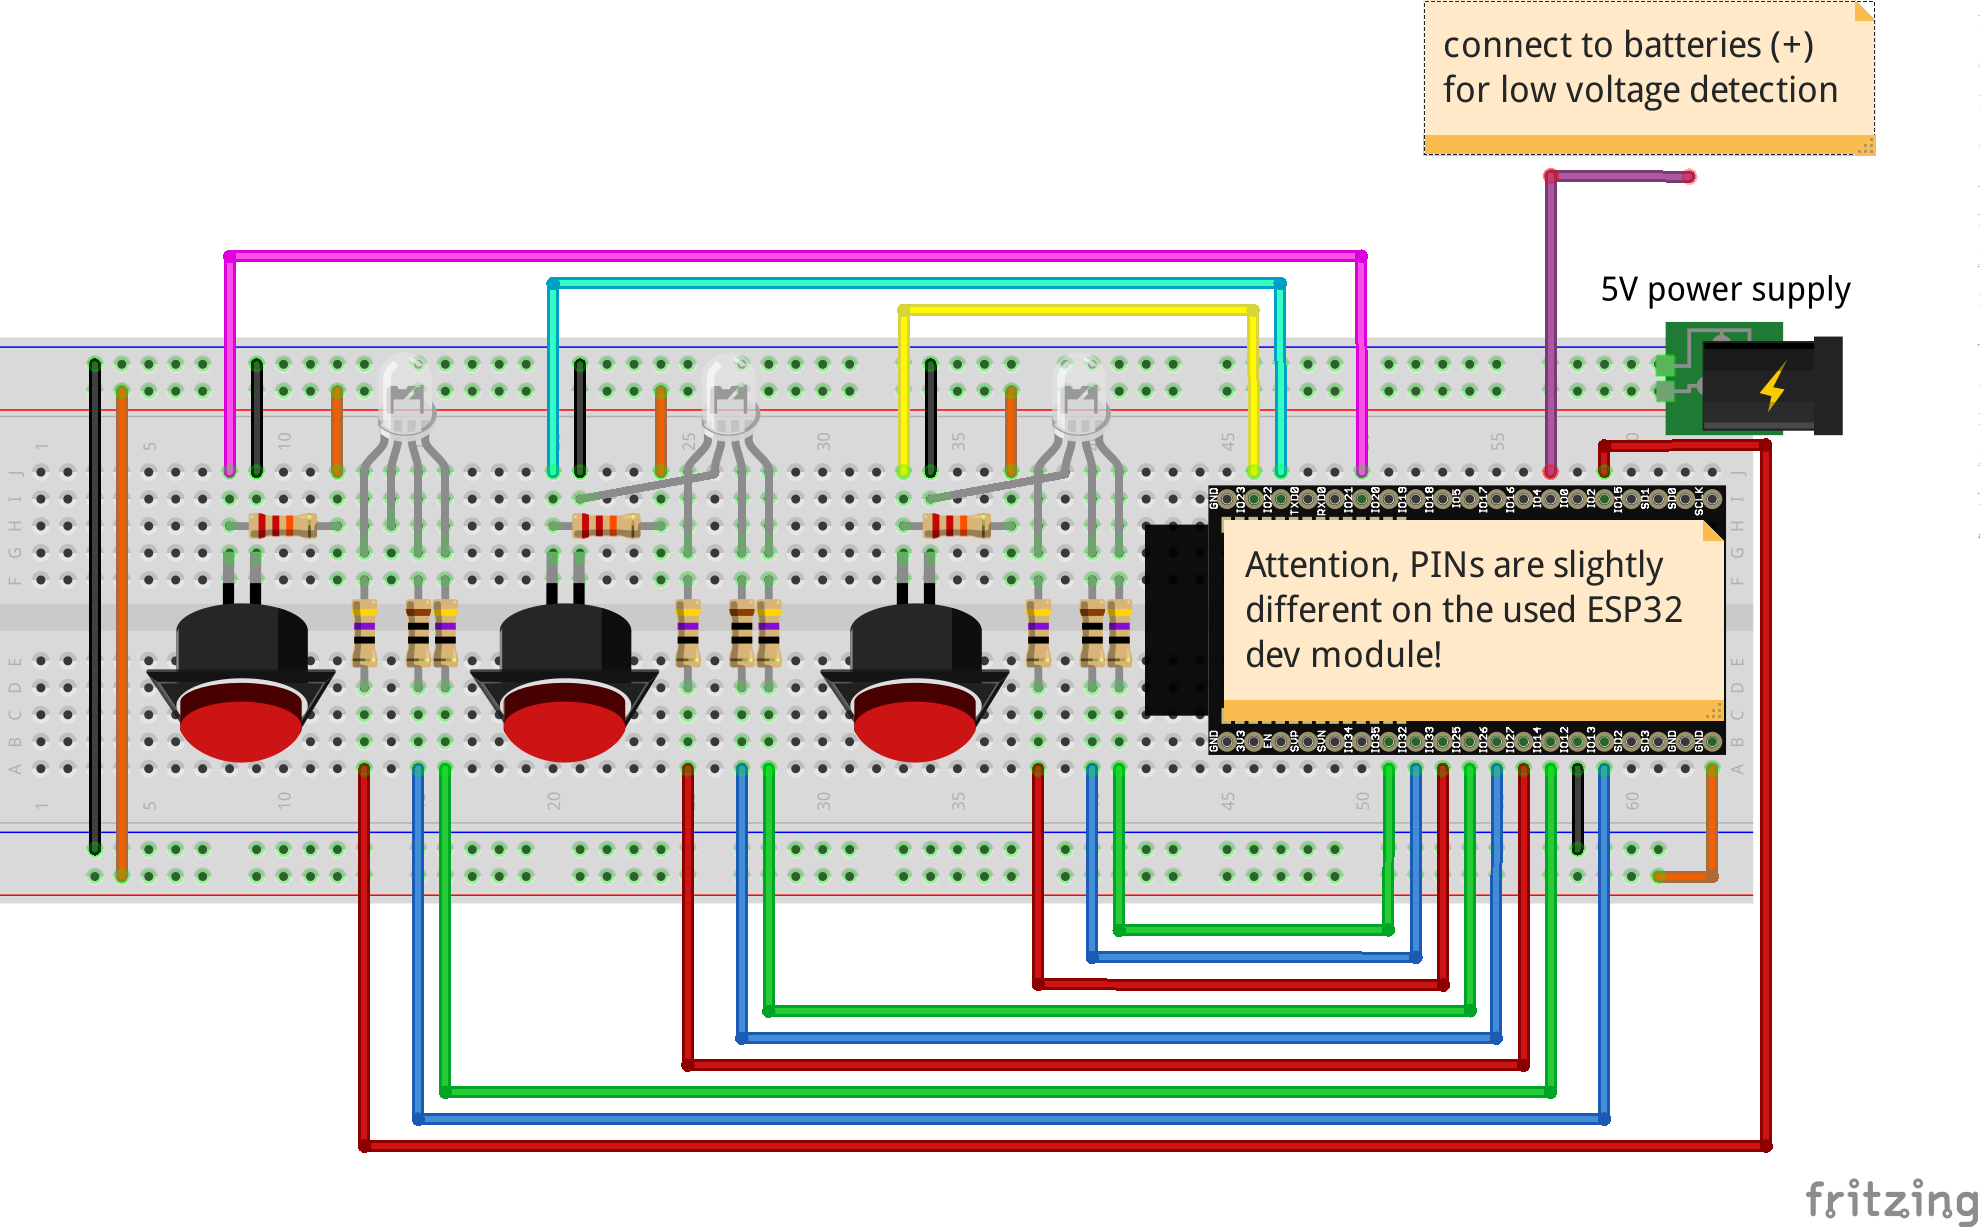
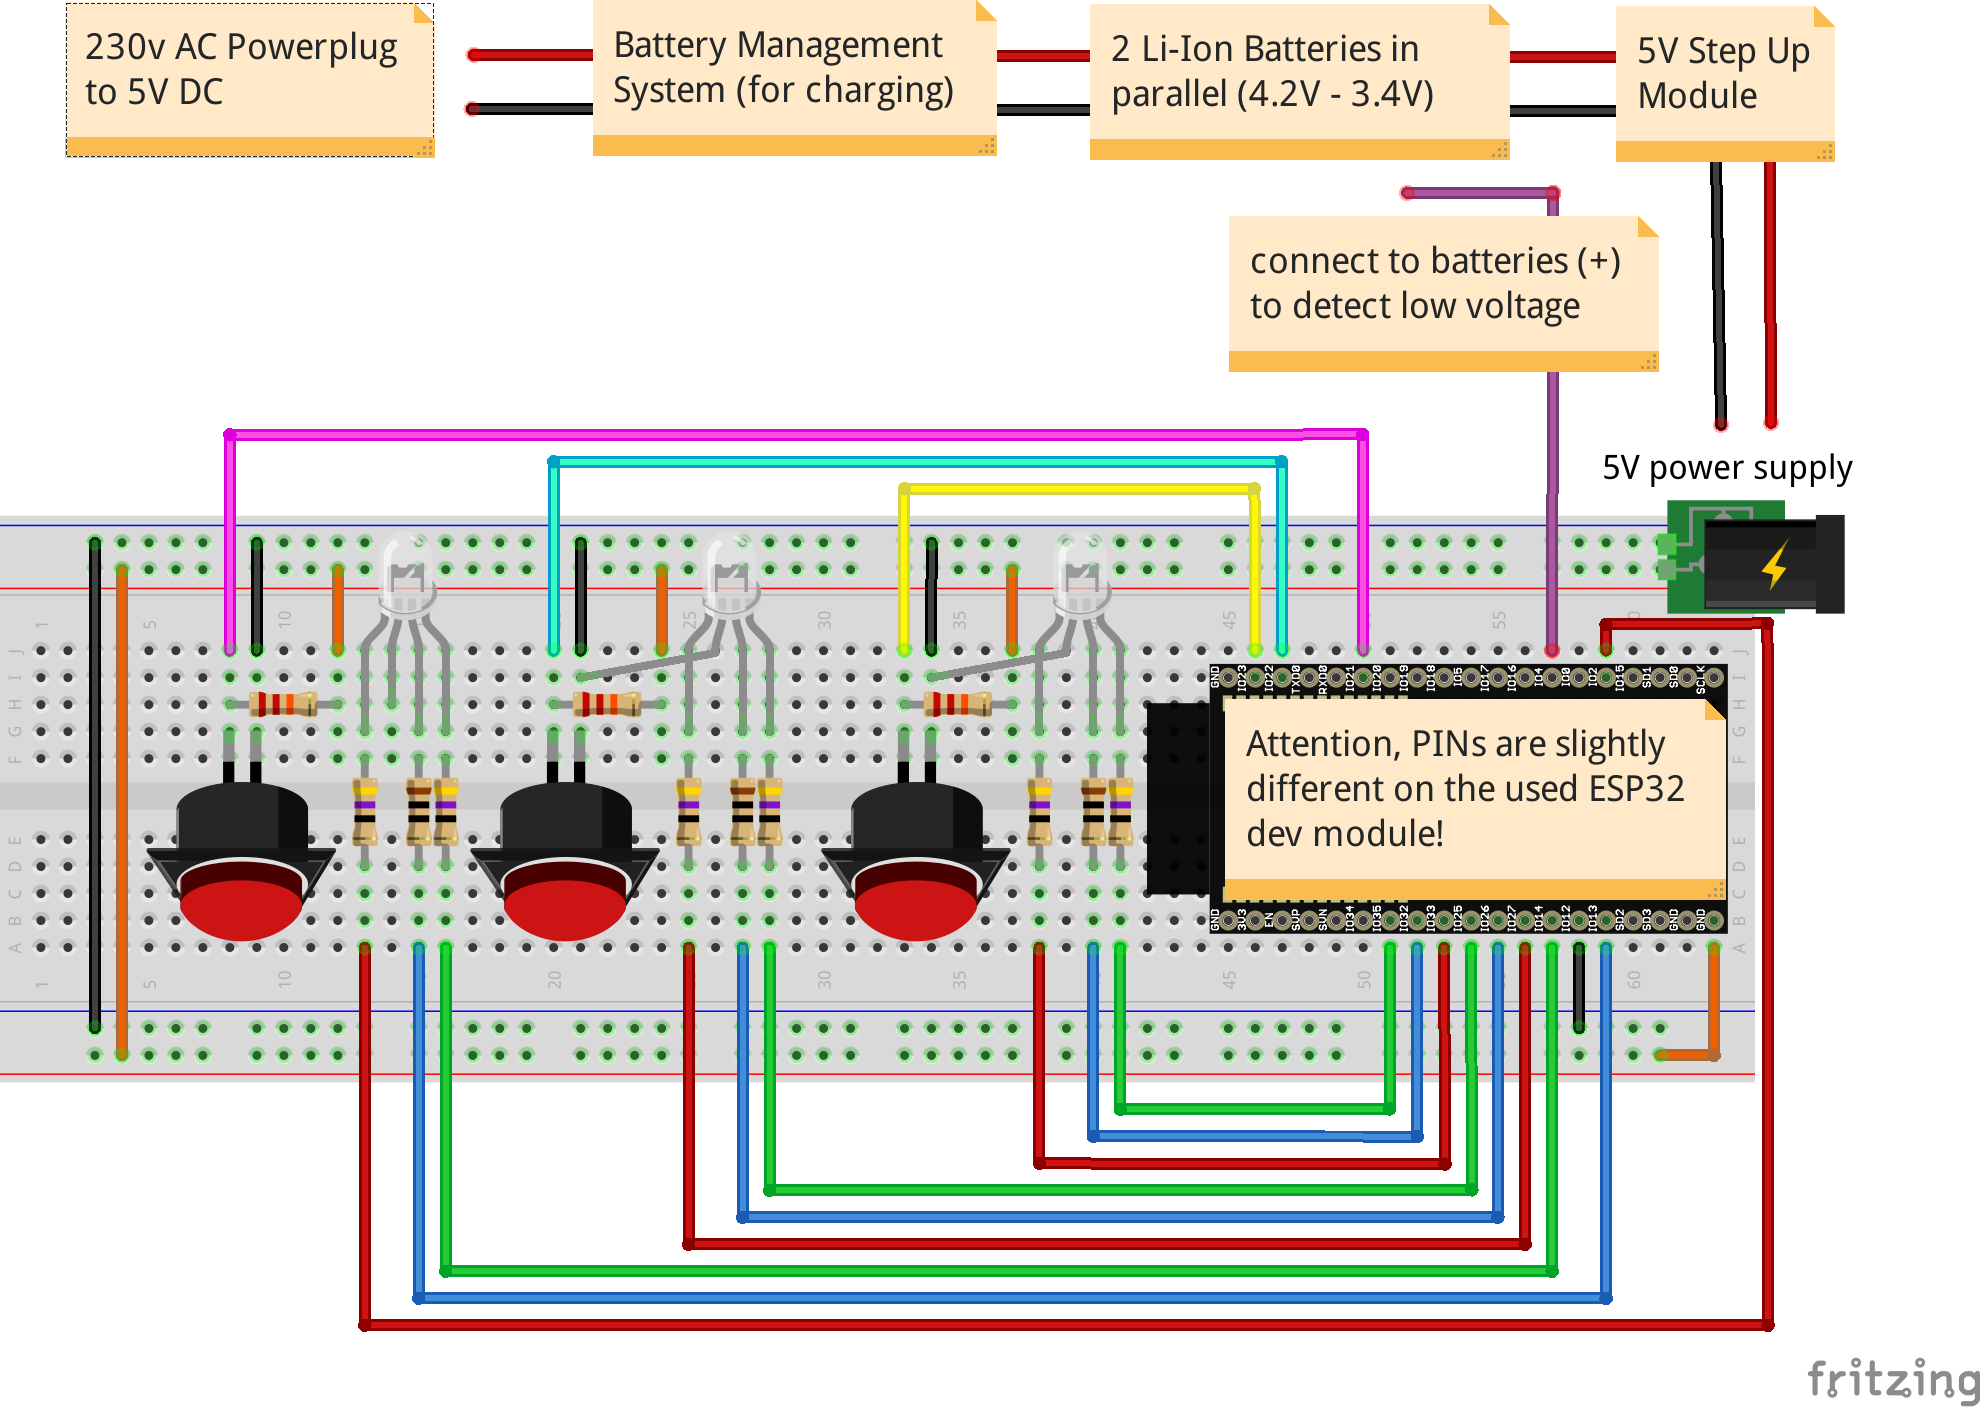
gamepad blockdiagram

diff --git a/TODO.md b/TODO.md
@@ -5,12 +5,12 @@
 * [ ] define game states and implement
 * [ ] build wooden gamepad case (comb with 13mm edge length and 13mm depth)
 * [ ] setup introduction page; move howto details in separate file
-* [ ] gamepad blockdiagram
 * [ ] describe off-grid powered version for festivals (solar)
 * [ ] check licenses
   * open hardware for own schematics (cern license?)
   * dmxpy MIT license
 * [ ] find cool audio samples
+* [x] gamepad blockdiagram
 * [x] add low voltage disconnect and red warning on gamepads
 * [x] debug mysterious dmx behaviour 
  * Enttec USB DMX Pro Mk2 needs 300mA @ 5V supply
